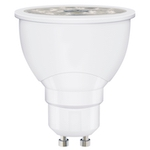
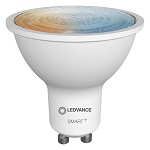
Updates to the products (#1682)
* New B40 E14 and PAR16 50 lamps

New dimmable products added

* Update AC25704.jpg

Updated the image of the E14 lamp

* Update 4058075181472.jpg

* Description adapted

* Added new P40 E14 dim lamp

* Added new filament dimmable lamp and edited the Photo folder for the E14

* Edison and Globe lamp added

* Update 4058075729148.jpg

* Adding new outdoor Plug

* Added Outdoor Plug EU

* md document edited

md document edited

* Update AC33898.md

* Update AC33905.md

* New B40 E14 Tunable White lamp added

* Update AC33905.jpg

* Md document minor typo changes

diff --git a/docs/devices/AC33901.md b/docs/devices/AC33901.md
@@ -1,7 +1,7 @@
 ---
-title: "LEDVANCE AC33905 control via MQTT"
-description: "Integrate your LEDVANCE AC33905 via Zigbee2MQTT with whatever smart home infrastructure you are using without the vendor's bridge or gateway."
-addedAt: 2022-03-31T18:55:00
+title: "LEDVANCE AC33901 control via MQTT"
+description: "Integrate your LEDVANCE AC33901 via Zigbee2MQTT with whatever smart home infrastructure you are using without the vendor's bridge or gateway."
+addedAt: 2022-11-07T18:55:00
 pageClass: device-page
 ---
 
@@ -11,15 +11,15 @@ pageClass: device-page
 <!-- Do not use h1 or h2 heading within "## Notes"-Section. -->
 <!-- !!!! -->
 
-# LEDVANCE AC33905
+# LEDVANCE AC33901
 
 |     |     |
 |-----|-----|
-| Model | AC33905  |
+| Model | AC33901  |
 | Vendor  | LEDVANCE  |
-| Description | SMART+ Spot PAR16 50 GU10 Tunable White |
-| Exposes | light (state, brightness, color_temp, color_xy, color_hs), effect, linkquality |
-| Picture | ![LEDVANCE AC33905](https://www.zigbee2mqtt.io/images/devices/AC33905.jpg) |
+| Description | SMART+ classic B40 E14 Tunable White |
+| Exposes | light (state, brightness, color_temp, color_temp_startup), effect, linkquality |
+| Picture | ![LEDVANCE AC33901](https://www.zigbee2mqtt.io/images/devices/AC33901.jpg) |
 
 
 <!-- Notes BEGIN: You can edit here. Add "## Notes" headline if not already present. -->
@@ -42,18 +42,11 @@ This device supports OTA updates, for more information see [OTA updates](../guid
 ## Exposes
 
 ### Light 
-This light supports the following features: `state`, `brightness`, `color_temp`.
+This light supports the following features: `state`, `brightness`, `color_temp`, `color_temp_startup`.
 - `state`: To control the state publish a message to topic `zigbee2mqtt/FRIENDLY_NAME/set` with payload `{"state": "ON"}`, `{"state": "OFF"}` or `{"state": "TOGGLE"}`. To read the state send a message to `zigbee2mqtt/FRIENDLY_NAME/get` with payload `{"state": ""}`.
 - `brightness`: To control the brightness publish a message to topic `zigbee2mqtt/FRIENDLY_NAME/set` with payload `{"brightness": VALUE}` where `VALUE` is a number between `0` and `254`. To read the brightness send a message to `zigbee2mqtt/FRIENDLY_NAME/get` with payload `{"brightness": ""}`.
 - `color_temp`: To control the color temperature (in reciprocal megakelvin a.k.a. mired scale) publish a message to topic `zigbee2mqtt/FRIENDLY_NAME/set` with payload `{"color_temp": VALUE}` where `VALUE` is a number between `153` and `370`, the higher the warmer the color. To read the color temperature send a message to `zigbee2mqtt/FRIENDLY_NAME/get` with payload `{"color_temp": ""}`. Besides the numeric values the following values are accepected: `coolest`, `cool`, `neutral`, `warmest`.
-- `color_xy`: To control the XY color (CIE 1931 color space) publish a message to topic `zigbee2mqtt/FRIENDLY_NAME/set` with payload `{"color": {"x": X_VALUE, "y": Y_VALUE}}` (e.g. `{"color":{"x":0.123,"y":0.123}}`). To read the XY color send a message to `zigbee2mqtt/FRIENDLY_NAME/get` with payload `{"color":{"x":"","y":""}}`. Alternatively it is possible to set the XY color via RGB:
-  - `{"color": {"r": R, "g": G, "b": B}}` e.g. `{"color":{"r":46,"g":102,"b":150}}`
-  - `{"color": {"rgb": "R,G,B"}}` e.g. `{"color":{"rgb":"46,102,150"}}`
-  - `{"color": {"hex": HEX}}` e.g. `{"color":{"hex":"#547CFF"}}`
-- `color_hs`: To control the hue/saturation (color) publish a message to topic `zigbee2mqtt/FRIENDLY_NAME/set` with payload `{"color": {"hue": HUE, "saturation": SATURATION}}` (e.g. `{"color":{"hue":360,"saturation":100}}`). To read the hue/saturation send a message to `zigbee2mqtt/FRIENDLY_NAME/get` with payload `{"color":{"hue":"","saturation":""}}`. Alternatively it is possible to set the hue/saturation via:
-  - HSB space (hue, saturation, brightness): `{"color": {"h": H, "s": S, "b": B}}` e.g. `{"color":{"h":360,"s":100,"b":100}}` or `{"color": {"hsb": "H,S,B"}}` e.g. `{"color":{"hsb":"360,100,100"}}`
-  - HSV space (hue, saturation, brightness):`{"color": {"h": H, "s": S, "v": V}}` e.g. `{"color":{"h":360,"s":100,"v":100}}` or `{"color": {"hsv": "H,S,V"}}` e.g. `{"color":{"hsv":"360,100,100"}}`
-  - HSL space (hue, saturation, lightness)`{"color": {"h": H, "s": S, "l": L}}` e.g. `{"color":{"h":360,"s":100,"l":100}}` or `{"color": {"hsl": "H,S,L"}}` e.g. `{"color":{"hsl":"360,100,100"}}`
+- `color_temp_startup`: To set the startup color temperature (in reciprocal megakelvin a.k.a. mired scale) publish a message to topic `zigbee2mqtt/FRIENDLY_NAME/set` with payload `{"color_temp_startup": VALUE}` where `VALUE` is a number between `153` and `370`, the higher the warmer the color. To read the startup color temperature send a message to `zigbee2mqtt/FRIENDLY_NAME/get` with payload `{"color_temp_startup": ""}`. Besides the numeric values the following values are accepected: `coolest`, `cool`, `neutral`, `warmest`, `previous`.
 
 #### Transition
 For all of the above mentioned features it is possible to do a transition of the value over time. To do this add an additional property `transition` to the payload which is the transition time in seconds.
@@ -76,10 +69,6 @@ To do this send a payload like below to `zigbee2mqtt/FRIENDLY_NAME/set`
   "color_temp_move": 60, // Starts moving color temperature up at 60 units per second
   "color_temp_move": "stop", // Stop moving color temperature
   "color_temp_step": 99, // Increase color temperature by 99
-  "hue_move": 40, // Starts moving hue up at 40 units per second, will endlessly loop (allowed value range: -255 till 255)
-  "hue_step": -90, // Decrease hue by 90 (allowed value range: -255 till 255)
-  "saturation_move": -55, // Starts moving saturation down at -55 units per second (allowed value range: -255 till 255)
-  "saturation_step": 66, // Increase saturation by 66 (allowed value range: -255 till 255)
 }
 ````
 

diff --git a/docs/devices/4058075728981.md b/docs/devices/4058075728981.md
@@ -38,7 +38,7 @@ Various LEDVANCE Products support setting a default transition when turning a li
 **INFO**: Value is time in seconds (integer, float values are not supported)
 
 ### Remember current light state
-Various Osram/Sylvania LED support remembering their current state in case of power loss, or if a light
+Various LEDVANCE Products support remembering their current state in case of power loss, or if a light
 is manually switched off then on. Lights will remember their respective attributes
 (i.e. brightness, color, saturation, etc.).
 **NOTE**: This must be executed every time you make changes to a light's attributes for it to then 'remember' it.

diff --git a/docs/devices/AC33898.md b/docs/devices/AC33898.md
@@ -17,7 +17,7 @@ pageClass: device-page
 |-----|-----|
 | Model | AC33898  |
 | Vendor  | LEDVANCE  |
-| Description |  Smart+ LED classic E27 Zigbee 10W/810lm |
+| Description |  Smart+ LED Classic Tunable White A60 E27 Zigbee 9W/806lm |
 | Exposes | light (state, brightness, color_temp, color_temp_startup), effect, linkquality |
 | Picture | ![LEDVANCE AC33898](https://www.zigbee2mqtt.io/images/devices/AC33898.jpg) |
 
